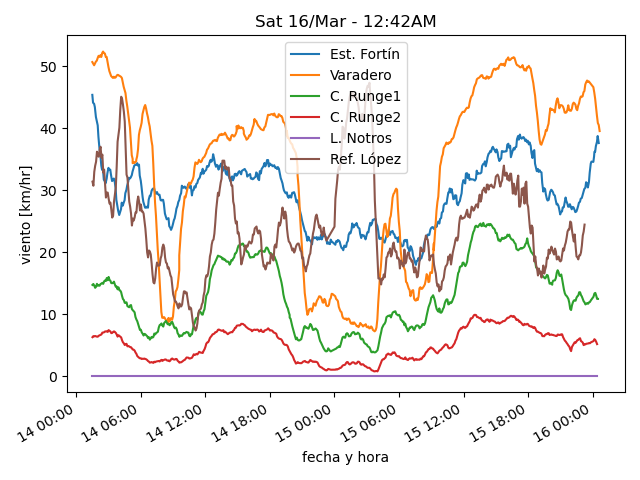
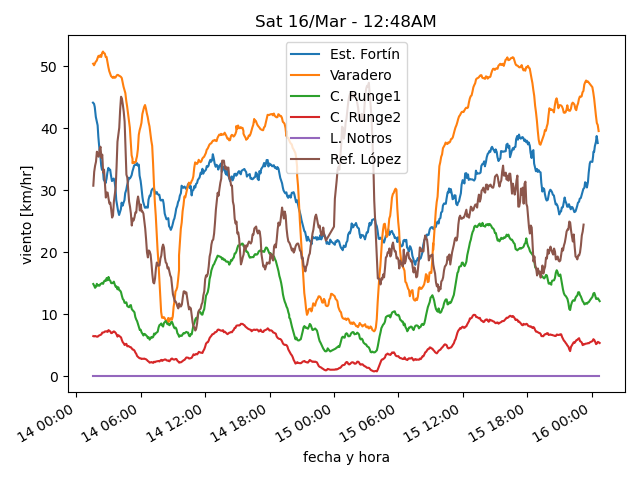
actualiza datos

diff --git a/estaciones/estacion4.html b/estaciones/estacion4.html
@@ -18,32 +18,32 @@
     </tr>
     <tr>
      <td class="stats_data">
-      12:24AM
+      12:44AM
      </td>
     </tr>
     <tr>
      <td class="stats_data">
-      9.3
+      9.6
      </td>
     </tr>
     <tr>
      <td class="stats_data">
-      5.3
+      4.8
      </td>
     </tr>
     <tr>
      <td class="stats_data">
-      76.1
+      72.3
      </td>
     </tr>
     <tr>
      <td class="stats_data">
-      1011.31
+      1011.14
      </td>
     </tr>
     <tr>
      <td class="stats_data">
-      1.8/3.1 SSW
+      2.3/3.6 SSW
      </td>
     </tr>
     <tr>

diff --git a/estaciones/estacion3.html b/estaciones/estacion3.html
@@ -18,32 +18,32 @@
     </tr>
     <tr>
      <td class="stats_data">
-      12:29AM
+      12:44AM
      </td>
     </tr>
     <tr>
      <td class="stats_data">
-      9.4
+      9.7
      </td>
     </tr>
     <tr>
      <td class="stats_data">
-      5.8
+      5.7
      </td>
     </tr>
     <tr>
      <td class="stats_data">
-      77.7
+      76.0
      </td>
     </tr>
     <tr>
      <td class="stats_data">
-      1002.34
+      1002.24
      </td>
     </tr>
     <tr>
      <td class="stats_data">
-      7.5/11.4 W
+      7.0/9.6 WSW
      </td>
     </tr>
     <tr>

diff --git a/estaciones/estacion5.html b/estaciones/estacion5.html
@@ -18,27 +18,27 @@
     </tr>
     <tr>
      <td class="stats_data">
-      12:25AM
+      12:40AM
      </td>
     </tr>
     <tr>
      <td class="stats_data">
-      9.6
+      9.9
      </td>
     </tr>
     <tr>
      <td class="stats_data">
-      5.9
+      5.7
      </td>
     </tr>
     <tr>
      <td class="stats_data">
-      78.0
+      75.0
      </td>
     </tr>
     <tr>
      <td class="stats_data">
-      1012.73
+      1012.39
      </td>
     </tr>
     <tr>
